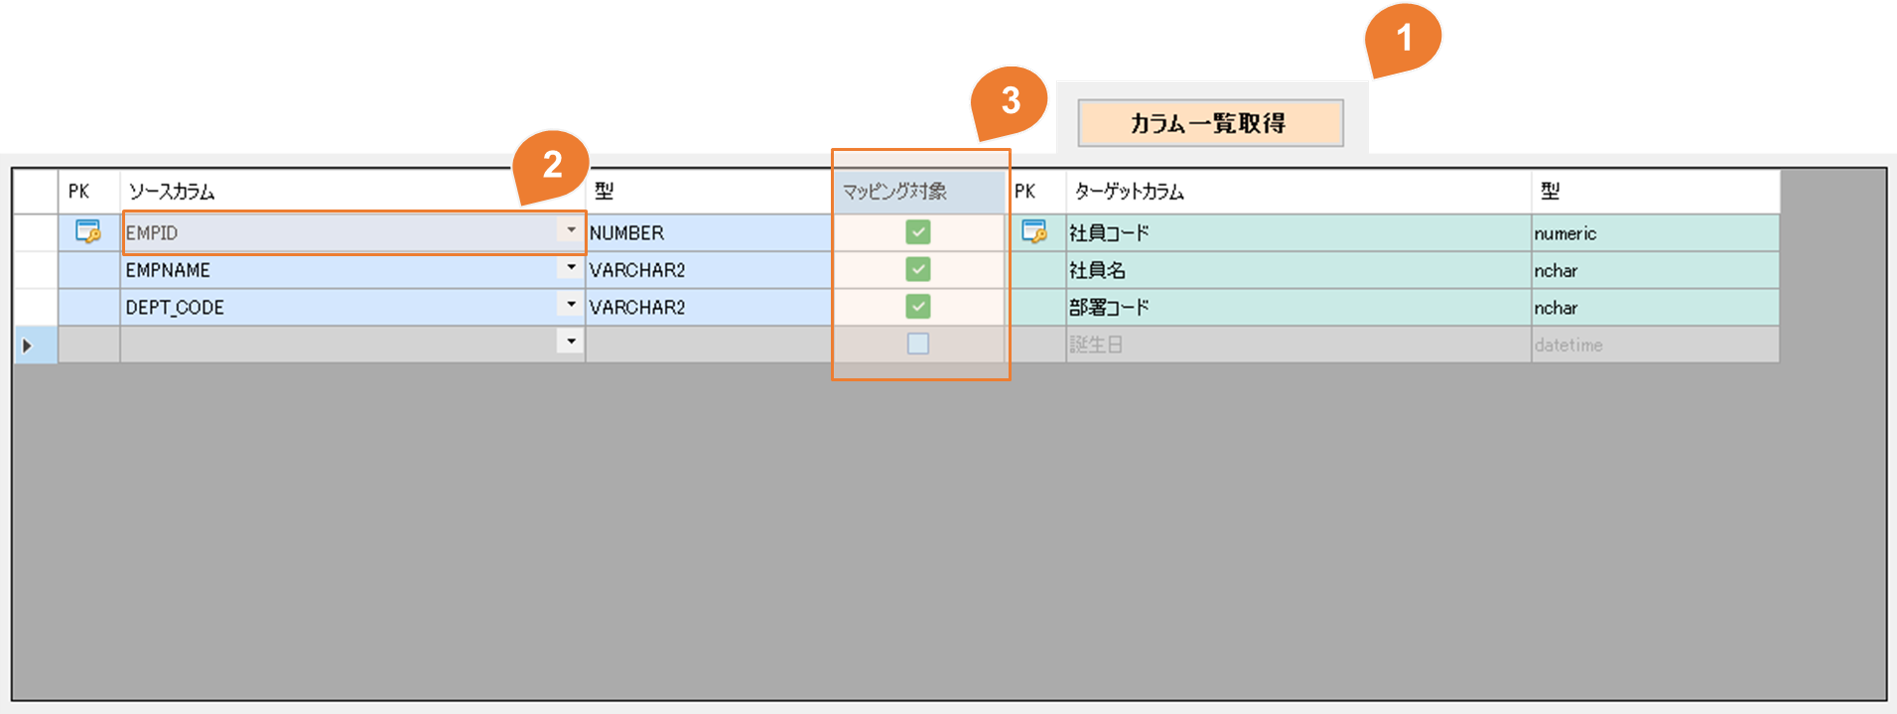
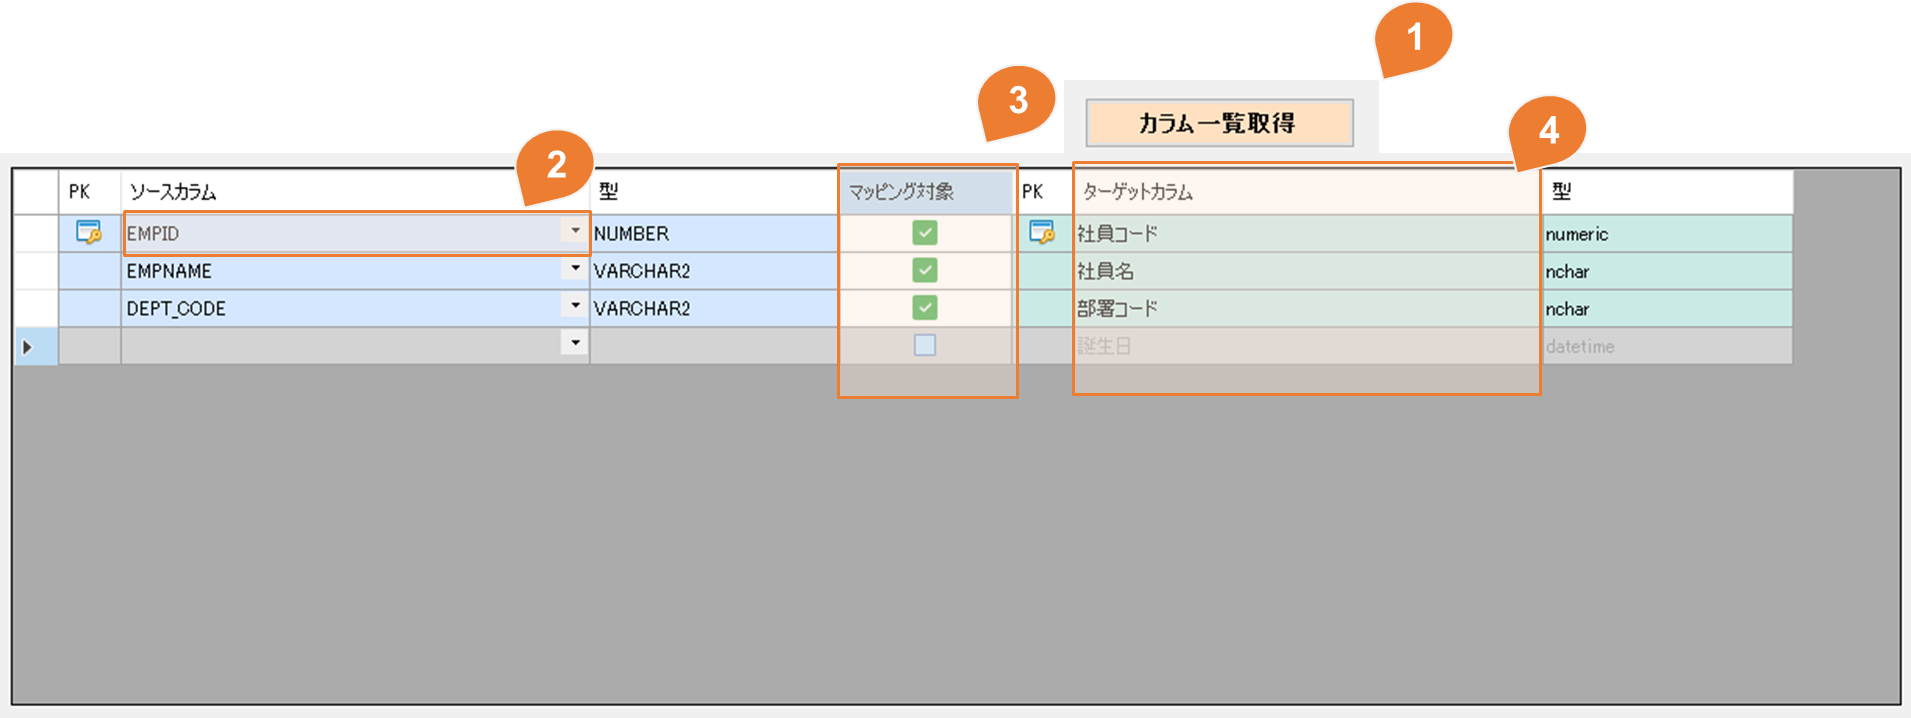
Ver 26..5.2

diff --git a/docs/userguide/mappingcolumndetail/index.html b/docs/userguide/mappingcolumndetail/index.html
@@ -2130,6 +2130,11 @@
 <td style="text-align: left;">マッピング対象</td>
 <td style="text-align: left;">ターゲットのカラムはデータ更新の対象かどうかを設定します。</td>
 </tr>
+<tr>
+<td style="text-align: left;">4</td>
+<td style="text-align: left;">ターゲットカラム</td>
+<td style="text-align: left;">更新先となるターゲット側のカラムを表示します。<br />RDB、SaaS を使用する場合、ターゲットカラム名は編集できません。<br />ファイル(CSV, Excel , JSON, XML)を使用する場合は、カラム名を編集できます。</td>
+</tr>
 </tbody>
 </table>
 

diff --git a/docs/start/setupsdi/index.html b/docs/start/setupsdi/index.html
@@ -2173,7 +2173,7 @@
 <h2 id="_1">セットアップ手順</h2>
 <h3 id="step1-simple-data-integrator">Step1: Simple Data Integrator をダウンロード</h3>
 <p><button class="download-btn">
-  <a href="../bin/SimpleDataIntegratorSetup_ja_26_4_1.zip" onclick="gtag('event', 'sdidownload', {'event_category': 'zip', 'event_label': 'SimpleDataIntegratorSetup_ja_26_4_1.zip'})" target="_blank"><i class="fas fa-download"></i> Simple Data Integrator 26.4.1 (最新版)</a> 
+  <a href="../bin/SimpleDataIntegratorSetup_ja_26_5_2.zip" onclick="gtag('event', 'sdidownload', {'event_category': 'zip', 'event_label': 'SimpleDataIntegratorSetup_ja_26_5_2.zip'})" target="_blank"><i class="fas fa-download"></i> Simple Data Integrator 26.5.2 (最新版)</a> 
 </button></p>
 <div class="admonition note">
 <p class="admonition-title">ご案内</p>